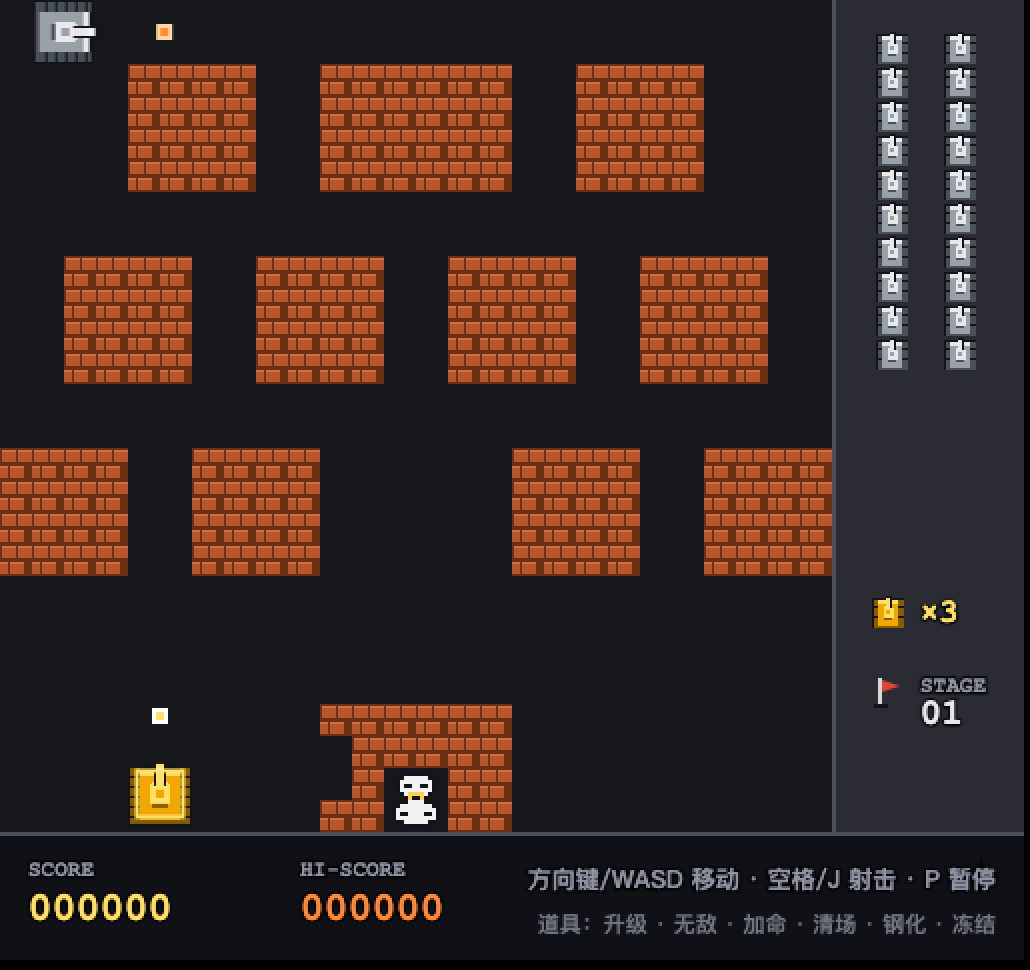
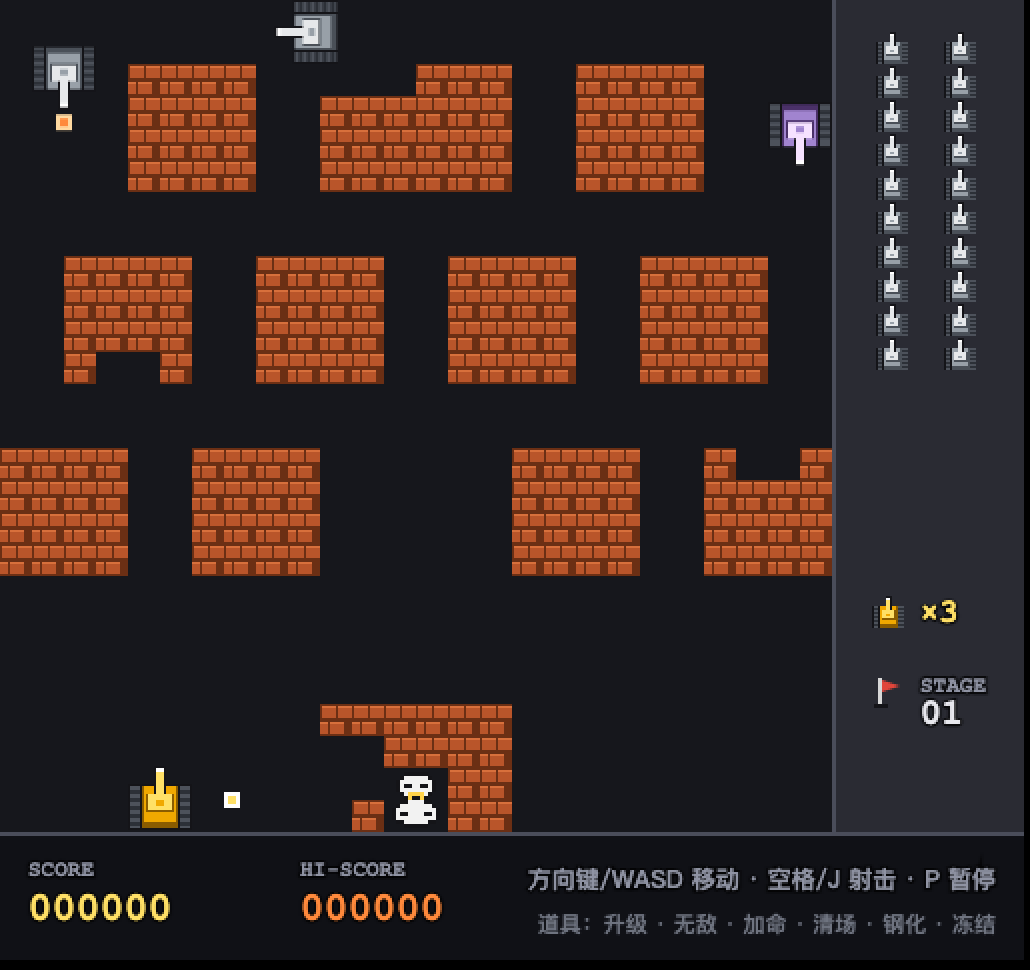
fix(08-TB1990): 坦克结构修正 + 标题页清晰度，重新发布线上
坦克（问题根因）
- 炮管只露出 4px：车体前缘在 y4，炮塔和炮管几乎被车身淹没，读成一个带耳朵的方盒
- 炮管的黑描边(y0..y15, x13/x18)一直穿过炮塔，把 10px 宽的炮塔劈成左右两条手臂 -> 视觉上的 U 形
- 底板 rect(0,8,32,24) 在坦克上方留了一条贯穿全宽的黑带
修正
- 外轮廓按实际形状分三块画（左右履带 + 车体），不再整块铺黑
- 绘制顺序改为 履带 -> 车体 -> 炮管 -> 炮塔，炮塔压住炮管根部
- 炮管加长到 15px（约车长 1/2），炮塔改为 12x8 宽扁形并压 1px 暗边，读成凸起炮塔环
- 履带改用金属灰 + 浅灰连接销（原来棕黄履带和车身同色系，小尺寸下糊成一整块）
- 去掉车体前角斜切（在 32px 下会变成一圈锯齿）

标题页
- 装饰坦克从 48px(1.5 倍) 改为 64px(整数 2 倍)：1.5 倍会让 32px 像素错位发糊
- 触屏操作说明由旧的"十字键"改为"摇杆"

工具
- 新增 tools/dump-tank.js：把精灵渲染成 ASCII 字符画，直接核对每个像素，
  不靠看图猜代码（本轮三个根因都是靠它定位的）

diff --git a/08-TB1990/minigame/js/sprites.js b/08-TB1990/minigame/js/sprites.js
@@ -67,32 +67,39 @@
       x.fillRect(gx * S, gy * S, gw * S, gh * S);
     }
 
-    /* --- 1. 底板：整块黑 = 唯一的外轮廓，内部不再单独描边 --- */
-    rect(0, 2, 32, 30, K);
+    /* --- 1. 外轮廓：按实际形状分三块画黑底（不能整块 32x24，否则顶部会多出一条黑带） --- */
+    rect(0, 9, 7, 23, K);            // 左履带外轮廓 x0..6, y9..31
+    rect(25, 9, 7, 23, K);           // 右履带外轮廓 x25..31
+    rect(6, 9, 20, 23, K);           // 车体外轮廓 x6..25
 
-    /* --- 2. 履带：左右各 5px，暗色填充，1px 细销做链感 --- */
-    rect(1, 3, 5, 28, DARK);
-    rect(26, 3, 5, 28, DARK);
-    for (var ly = 5 + (frame ? 2 : 0); ly < 30; ly += 5) {
-      rect(1, ly, 5, 1, K);
-      rect(26, ly, 5, 1, K);
+    /* --- 2. 履带：各 5px 宽。连接销用"浅一档的灰"而不是纯黑，
+     * 否则一节节的履带会被看成贴在车边的砖块。 --- */
+    var TREAD = '#4d525b', TREAD_PIN = '#2c3037';
+    rect(1, 10, 5, 21, TREAD);       // x1..5, y10..30
+    rect(26, 10, 5, 21, TREAD);      // x26..30
+    for (var ly = 12 + (frame ? 2 : 0); ly < 30; ly += 4) {
+      rect(1, ly, 5, 2, TREAD_PIN);
+      rect(26, ly, 5, 2, TREAD_PIN);
     }
 
-    /* --- 3. 车体：直接贴住履带（无缝、无黑边） --- */
-    rect(6, 4, 20, 27, MID);         // x6..25, y4..30
-    rect(6, 4, 20, 3, LIGHT);        // 前装甲亮条（旋转后=车的正面）
-    rect(6, 29, 20, 2, DARK);        // 尾部阴影
+    /* --- 3. 车体：直角即可（斜切在小尺寸下会变成一圈锯齿），只用左右内阴影做体积 --- */
+    rect(7, 10, 18, 21, MID);        // x7..24, y10..30
+    rect(7, 10, 1, 21, DARK);        // 左侧内阴影
+    rect(24, 10, 1, 21, DARK);       // 右侧内阴影
+    rect(7, 28, 18, 3, DARK);        // 尾部阴影
 
-    /* --- 4. 炮塔：实心亮块，无描边，靠明度区分；四角不画做出圆角 --- */
-    rect(11, 11, 10, 10, LIGHT);     // 塔体
-    rect(12, 10, 8, 1, LIGHT);       // 顶部窄行 -> 圆顶
-    rect(12, 21, 8, 2, DARK);        // 塔体下沿阴影
-    rect(14, 14, 4, 4, MID);         // 舱盖
+    /* --- 4. 炮管：先画，让炮塔压住它的根部（否则黑描边会穿过炮塔，把它劈成两半） --- */
+    rect(13, 0, 6, 15, K);           // 外描边 x13..18, y0..14
+    rect(14, 1, 4, 14, LIGHT);       // 管身
+    rect(14, 1, 4, 2, '#ffffff');    // 炮口高光
 
-    /* --- 5. 炮管：唯一带黑描边的部件（它突出在剪影之外，需要描边才立得住） --- */
-    rect(13, 0, 6, 12, K);
-    rect(14, 1, 4, 11, LIGHT);
-    rect(14, 3, 4, 1, '#ffffff');    // 炮口高光
+    /* --- 5. 炮塔：最后画。宽 12 高 8，左右和下方各压 1px 暗色，
+     * 让它读成"凸起的炮塔环"，而不是车体上的一块亮斑 --- */
+    rect(10, 14, 12, 8, LIGHT);      // x10..21, y14..21
+    rect(9, 14, 1, 9, DARK);         // 左沿
+    rect(22, 14, 1, 9, DARK);        // 右沿
+    rect(10, 22, 12, 1, DARK);       // 下沿
+    rect(14, 17, 4, 3, MID);         // 舱盖（不要加"接缝点"，两个亮点会读成一张脸）
     return o.c;
   }
 

diff --git a/08-TB1990/preview/js/sprites.js b/08-TB1990/preview/js/sprites.js
@@ -67,32 +67,39 @@
       x.fillRect(gx * S, gy * S, gw * S, gh * S);
     }
 
-    /* --- 1. 底板：整块黑 = 唯一的外轮廓，内部不再单独描边 --- */
-    rect(0, 2, 32, 30, K);
+    /* --- 1. 外轮廓：按实际形状分三块画黑底（不能整块 32x24，否则顶部会多出一条黑带） --- */
+    rect(0, 9, 7, 23, K);            // 左履带外轮廓 x0..6, y9..31
+    rect(25, 9, 7, 23, K);           // 右履带外轮廓 x25..31
+    rect(6, 9, 20, 23, K);           // 车体外轮廓 x6..25
 
-    /* --- 2. 履带：左右各 5px，暗色填充，1px 细销做链感 --- */
-    rect(1, 3, 5, 28, DARK);
-    rect(26, 3, 5, 28, DARK);
-    for (var ly = 5 + (frame ? 2 : 0); ly < 30; ly += 5) {
-      rect(1, ly, 5, 1, K);
-      rect(26, ly, 5, 1, K);
+    /* --- 2. 履带：各 5px 宽。连接销用"浅一档的灰"而不是纯黑，
+     * 否则一节节的履带会被看成贴在车边的砖块。 --- */
+    var TREAD = '#4d525b', TREAD_PIN = '#2c3037';
+    rect(1, 10, 5, 21, TREAD);       // x1..5, y10..30
+    rect(26, 10, 5, 21, TREAD);      // x26..30
+    for (var ly = 12 + (frame ? 2 : 0); ly < 30; ly += 4) {
+      rect(1, ly, 5, 2, TREAD_PIN);
+      rect(26, ly, 5, 2, TREAD_PIN);
     }
 
-    /* --- 3. 车体：直接贴住履带（无缝、无黑边） --- */
-    rect(6, 4, 20, 27, MID);         // x6..25, y4..30
-    rect(6, 4, 20, 3, LIGHT);        // 前装甲亮条（旋转后=车的正面）
-    rect(6, 29, 20, 2, DARK);        // 尾部阴影
+    /* --- 3. 车体：直角即可（斜切在小尺寸下会变成一圈锯齿），只用左右内阴影做体积 --- */
+    rect(7, 10, 18, 21, MID);        // x7..24, y10..30
+    rect(7, 10, 1, 21, DARK);        // 左侧内阴影
+    rect(24, 10, 1, 21, DARK);       // 右侧内阴影
+    rect(7, 28, 18, 3, DARK);        // 尾部阴影
 
-    /* --- 4. 炮塔：实心亮块，无描边，靠明度区分；四角不画做出圆角 --- */
-    rect(11, 11, 10, 10, LIGHT);     // 塔体
-    rect(12, 10, 8, 1, LIGHT);       // 顶部窄行 -> 圆顶
-    rect(12, 21, 8, 2, DARK);        // 塔体下沿阴影
-    rect(14, 14, 4, 4, MID);         // 舱盖
+    /* --- 4. 炮管：先画，让炮塔压住它的根部（否则黑描边会穿过炮塔，把它劈成两半） --- */
+    rect(13, 0, 6, 15, K);           // 外描边 x13..18, y0..14
+    rect(14, 1, 4, 14, LIGHT);       // 管身
+    rect(14, 1, 4, 2, '#ffffff');    // 炮口高光
 
-    /* --- 5. 炮管：唯一带黑描边的部件（它突出在剪影之外，需要描边才立得住） --- */
-    rect(13, 0, 6, 12, K);
-    rect(14, 1, 4, 11, LIGHT);
-    rect(14, 3, 4, 1, '#ffffff');    // 炮口高光
+    /* --- 5. 炮塔：最后画。宽 12 高 8，左右和下方各压 1px 暗色，
+     * 让它读成"凸起的炮塔环"，而不是车体上的一块亮斑 --- */
+    rect(10, 14, 12, 8, LIGHT);      // x10..21, y14..21
+    rect(9, 14, 1, 9, DARK);         // 左沿
+    rect(22, 14, 1, 9, DARK);        // 右沿
+    rect(10, 22, 12, 1, DARK);       // 下沿
+    rect(14, 17, 4, 3, MID);         // 舱盖（不要加"接缝点"，两个亮点会读成一张脸）
     return o.c;
   }
 

diff --git a/08-TB1990/tools/dump-tank.js b/08-TB1990/tools/dump-tank.js
@@ -1,0 +1,72 @@
+/**
+ * tools/dump-tank.js - 把坦克精灵导出成 ASCII 字符画
+ * 用 mock canvas 记录每次 fillRect，直接看清 32x32 网格里到底画了什么，
+ * 避免"看图猜代码"。
+ * 运行：node tools/dump-tank.js
+ */
+const path = require('path');
+const JS = '/Users/tiger/WorkBuddy/2026-10-26-19-12-20/tank1990/preview/js';
+
+const COLOR = {
+  '#141418': 'K',   // 外描边黑
+  '#ffe066': 'L',   // 亮（炮塔/炮管）
+  '#f0a800': 'M',   // 中间色（车体）
+  '#8a5c00': 'D',   // 暗（履带/尾部阴影）
+  '#ffffff': 'W'    // 炮口高光
+};
+
+const canvases = [];
+
+function makeCanvas(w, h) {
+  const cv = { width: w, height: h, _w: w, _h: h };
+  cv._grid = Array.from({ length: h }, () => Array(w).fill('.'));
+  cv.getContext = () => {
+    const ctx = {
+      imageSmoothingEnabled: false,
+      fillStyle: '',
+      fillRect(x, y, fw, fh) {
+        const ch = COLOR[String(this.fillStyle).toLowerCase()] || '?';
+        for (let yy = y; yy < y + fh; yy++) {
+          for (let xx = x; xx < x + fw; xx++) {
+            if (yy >= 0 && yy < cv._h && xx >= 0 && xx < cv._w) cv._grid[yy][xx] = ch;
+          }
+        }
+      },
+      clearRect() {}, drawImage() {}, save() {}, restore() {}, translate() {},
+      rotate() {}, scale() {}, setTransform() {}, beginPath() {}, closePath() {},
+      moveTo() {}, lineTo() {}, stroke() {}, fill() {}, arc() {},
+      fillText() {}, strokeText() {}, measureText: () => ({ width: 10 })
+    };
+    cv._ctx = ctx;
+    return ctx;
+  };
+  canvases.push(cv);
+  return cv;
+}
+
+globalThis.Platform = {
+  isMiniGame: false,
+  global: globalThis,
+  createCanvas: makeCanvas,
+  getStorage: () => '0', setStorage() {}, vibrate() {},
+  onPointerDown() {}, createAudioContext: () => null, getSystemInfo: () => ({})
+};
+
+require(path.join(JS, 'config.js'));
+require(path.join(JS, 'sprites.js'));
+globalThis.Sprites.init();
+
+function print(cv, label) {
+  console.log('\n=== ' + label + ' (' + cv._w + 'x' + cv._h + ') ===');
+  console.log('    ' + Array.from({ length: cv._w }, (_, i) => (i % 10)).join(''));
+  cv._grid.forEach((row, i) => {
+    console.log(String(i).padStart(3, ' ') + ' ' + row.join(''));
+  });
+}
+
+// 找出所有 32x32 且不是全空的画布（第一个就是朝上的 p1 帧 0）
+const tanks = canvases.filter(c => c._w === 32 && c._h === 32 &&
+  c._grid.some(r => r.some(ch => ch !== '.')));
+print(tanks[0], '玩家坦克 · 朝上 · 帧0');
+console.log('\n图例：K=黑描边  L=亮  M=中  D=暗  W=白（炮口高光）  .=透明');
+console.log('说明：整块 K 是底板，透明区才是真正的剪影之外。');

diff --git a/08-TB1990/minigame/js/ui.js b/08-TB1990/minigame/js/ui.js
@@ -272,9 +272,10 @@
     drawTitle: function (ctx, game) {
       this.dim(ctx, 1);
       var cx = CFG.W / 2;
-      // 装饰坦克
-      ctx.drawImage(S.tank.p1.UP[0], 60, 150, 48, 48);
-      ctx.drawImage(S.tank.armor4.DOWN[0], 400, 150, 48, 48);
+      // 装饰坦克：必须按整数倍（2x = 64px）绘制，1.5 倍会让 32px 像素错位发糊
+      ctx.imageSmoothingEnabled = false;
+      ctx.drawImage(S.tank.p1.UP[0], 54, 142, 64, 64);
+      ctx.drawImage(S.tank.armor4.DOWN[0], 394, 142, 64, 64);
 
       text(ctx, '坦 克 大 战', cx, 120, { size: 46, align: 'center', cn: true, color: '#ffe066' });
       text(ctx, 'TANK BATTLE 1990', cx, 155, { size: 18, align: 'center', color: '#e8e8ee' });
@@ -290,7 +291,7 @@
         { size: 14, align: 'center', cn: true, color: '#b9bcc8' });
 
       var lines = g.__isTouch
-        ? ['左下方十字键：移动', '右下方圆钮：射击', '右上角按钮：暂停 / 静音']
+        ? ['左下摇杆：按住拖向任意方向移动', '右下橙色按钮：按住连发', '右上角按钮：暂停 / 静音']
         : ['↑ ↓ ← → 或 W A S D：移动', '空格 / J：射击', 'P 或 ESC：暂停'];
       for (var i = 0; i < lines.length; i++) {
         text(ctx, lines[i], cx, 340 + i * 24, { size: 13, align: 'center', cn: true, color: CFG.COLORS.dim });

diff --git a/08-TB1990/preview/js/ui.js b/08-TB1990/preview/js/ui.js
@@ -272,9 +272,10 @@
     drawTitle: function (ctx, game) {
       this.dim(ctx, 1);
       var cx = CFG.W / 2;
-      // 装饰坦克
-      ctx.drawImage(S.tank.p1.UP[0], 60, 150, 48, 48);
-      ctx.drawImage(S.tank.armor4.DOWN[0], 400, 150, 48, 48);
+      // 装饰坦克：必须按整数倍（2x = 64px）绘制，1.5 倍会让 32px 像素错位发糊
+      ctx.imageSmoothingEnabled = false;
+      ctx.drawImage(S.tank.p1.UP[0], 54, 142, 64, 64);
+      ctx.drawImage(S.tank.armor4.DOWN[0], 394, 142, 64, 64);
 
       text(ctx, '坦 克 大 战', cx, 120, { size: 46, align: 'center', cn: true, color: '#ffe066' });
       text(ctx, 'TANK BATTLE 1990', cx, 155, { size: 18, align: 'center', color: '#e8e8ee' });
@@ -290,7 +291,7 @@
         { size: 14, align: 'center', cn: true, color: '#b9bcc8' });
 
       var lines = g.__isTouch
-        ? ['左下方十字键：移动', '右下方圆钮：射击', '右上角按钮：暂停 / 静音']
+        ? ['左下摇杆：按住拖向任意方向移动', '右下橙色按钮：按住连发', '右上角按钮：暂停 / 静音']
         : ['↑ ↓ ← → 或 W A S D：移动', '空格 / J：射击', 'P 或 ESC：暂停'];
       for (var i = 0; i < lines.length; i++) {
         text(ctx, lines[i], cx, 340 + i * 24, { size: 13, align: 'center', cn: true, color: CFG.COLORS.dim });

diff --git a/08-TB1990/tools/mobile.html b/08-TB1990/tools/mobile.html
@@ -40,6 +40,8 @@
             var G = w.__game;
             G.state = w.GAME_ST.PLAYING;
             G.introT = 0;
+            // 清掉出生闪烁计时，否则截图里看到的是星星动画而不是坦克本体
+            if (G.player) G.player.spawnT = 0;
 
             var zone = d.getElementById('stick-zone');
             if (!zone) return;
